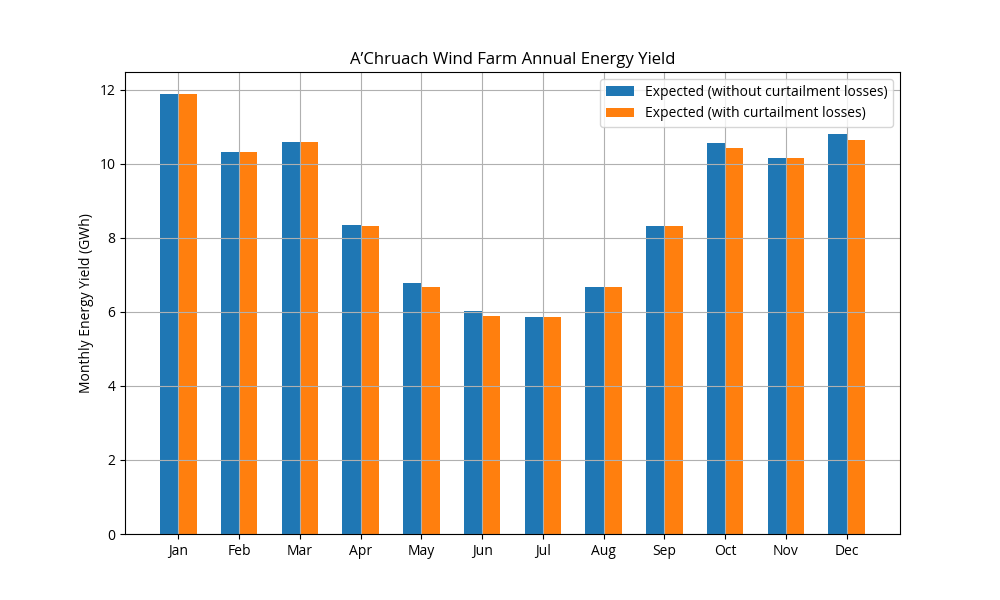
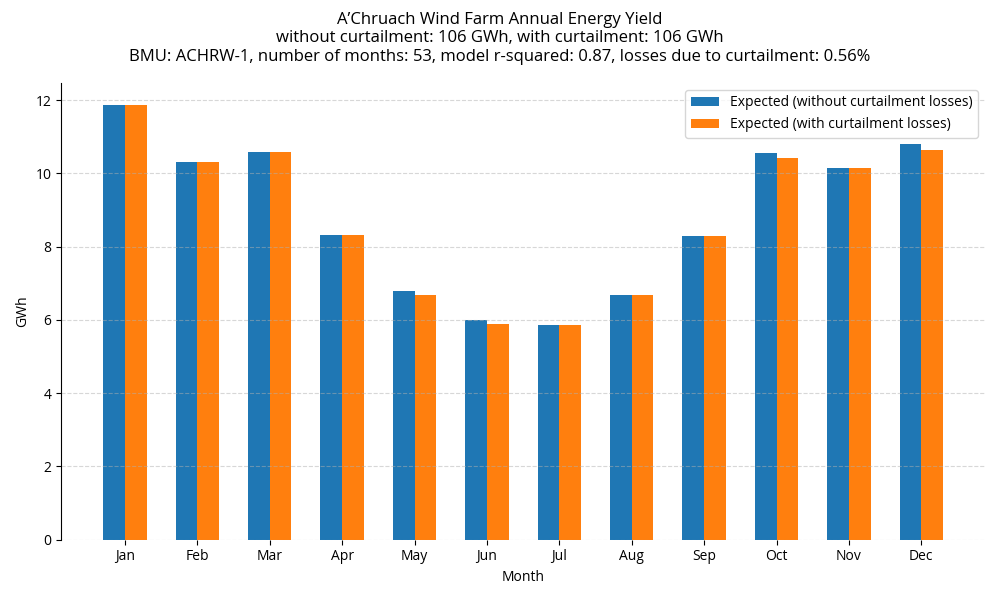
Add wind farm posts and images

diff --git a/src/energy_yield/matplotlib_plotting.py b/src/energy_yield/matplotlib_plotting.py
@@ -1,0 +1,187 @@
+import os, sys
+import plotly.graph_objects as go
+from plotly.subplots import make_subplots
+import matplotlib.pyplot as plt
+import numpy as np
+from scipy import stats
+
+
+# change the matplotlib font to use open sans
+plt.rcParams['font.family'] = 'sans-serif'
+plt.rcParams['font.sans-serif'] = 'Open Sans'
+
+COLOURS = ['#3F7D20', '#A0DDE6', '#542e71','#3F7CAC','#698F3F']
+
+global project_root_path
+project_root_path = os.path.dirname(os.path.dirname(os.path.dirname(os.path.abspath(__file__))))
+
+
+import matplotlib.pyplot as plt
+import os
+import pandas as pd
+
+def _get_ax(ax, plot_df, pcey_obj, start, end):
+    # Slice the DataFrame
+    df_slice = plot_df[start:end]
+
+    # Plot the data on the provided axis
+    ax.plot(df_slice.index, df_slice[pcey_obj.COL_PREDICTED_IDEAL_YIELD], label='Predicted', marker='x')
+    ax.plot(df_slice.index, df_slice[pcey_obj.COL_NET_YIELD + '_ok'], label='Generation', marker='x')
+    ax.plot(df_slice.index, df_slice[pcey_obj.COL_IDEAL_YIELD + '_ok'], label='Generation - Curtailment', marker='x')
+
+    # Set the title, labels, and legend
+
+
+    ax.set_xlabel('Month')
+    ax.set_ylabel('GWh')
+    ax.legend()
+
+    for spine in ['top', 'right','bottom']:
+        ax.spines[spine].set_visible(False)
+
+    # y grid lines
+    ax.grid(axis='y', linestyle='--', alpha=0.5)
+
+    return ax
+
+
+
+def plot_generation(pcey_obj):
+    try:
+        # Make a folder for the plots
+        plot_folder = os.path.join(project_root_path, 'plots')
+        if not os.path.exists(plot_folder):
+            os.mkdir(plot_folder)
+
+        filename = f'2_{pcey_obj.bmu}_pcey'
+        plot_path = os.path.join(plot_folder, filename)
+        plot_df = pcey_obj.month_df.copy()
+
+
+
+
+        fig = plt.figure(figsize=(10, 15))
+        ax1 = fig.add_subplot(411)
+        ax2 = fig.add_subplot(412)
+        ax3 = fig.add_subplot(413)
+        ax4 = fig.add_subplot(414)
+
+        # break the data into 4 parts
+        n = len(plot_df)
+        n1 = int(n / 4)
+        n2 = int(n / 2)
+        n3 = int(n * 3 / 4)
+
+        # Plot the data
+        ax1 = _get_ax(ax1, plot_df, pcey_obj, 0, n1)
+        ax2 = _get_ax(ax2, plot_df, pcey_obj, n1, n2)
+        ax3 = _get_ax(ax3, plot_df, pcey_obj, n2, n3)
+        ax4 = _get_ax(ax4, plot_df, pcey_obj, n3, n)
+
+        fig.suptitle(f'{pcey_obj.bmu} - {pcey_obj.name}', fontsize=16)
+
+
+        plt.tight_layout()
+
+
+        # Save the plot
+        plt.savefig(f'{plot_path}.png')
+        plt.close()
+
+    except Exception as e:
+        # Error handling
+        line_number = sys.exc_info()[-1].tb_lineno
+        print(f"plot_generation(), error: {e}, line: {line_number}")
+
+
+def plot_scatter(pcey_obj):
+    try:
+        # Make a folder for the plots
+        plot_folder = os.path.join(project_root_path, 'plots')
+        if not os.path.exists(plot_folder):
+            os.mkdir(plot_folder)
+
+        filename = f'1_{pcey_obj.bmu}_scatter'
+        plot_path = os.path.join(plot_folder, filename)
+        plot_df = pcey_obj.month_df.copy()
+        filt = plot_df[pcey_obj.COL_DAILY_IDEAL_YIELD + '_ok'] > 0
+        filt2 = plot_df[pcey_obj.COL_DAILY_IDEAL_YIELD + '_fail'] > 0
+        plot_df = plot_df[filt | filt2].copy()
+
+        # Create the plot
+        fig = plt.figure(figsize=(10, 10))
+        ax = fig.add_subplot(111)
+        ax.scatter(plot_df[pcey_obj.COL_DAILY_PREDICTED], plot_df[pcey_obj.COL_DAILY_IDEAL_YIELD + '_ok'], color='darkblue', label='QC PASS')
+        ax.scatter(plot_df[pcey_obj.COL_DAILY_PREDICTED], plot_df[pcey_obj.COL_DAILY_IDEAL_YIELD + '_fail'], color='orange', label='QC FAIL')
+
+        x_range = np.linspace(0, plot_df[pcey_obj.COL_DAILY_PREDICTED].max() * 1.1, 100)
+        ax.plot(x_range, pcey_obj.fit_dict['slope'] * x_range + pcey_obj.fit_dict['intercept'], color='red', linestyle='--')
+
+
+        ax.set_xlabel('Predicted Average Daily Generation (GWh)')
+        ax.set_ylabel('Actual Average Daily Generation (GWh)')
+        ax.legend()
+
+        for spine in ['top', 'right']:
+            ax.spines[spine].set_visible(False)
+
+        fig.suptitle(f'{pcey_obj.bmu} - {pcey_obj.name}', fontsize=16)
+        # save the plot
+        fig.savefig(f'{plot_path}.png')
+        plt.close()
+
+    except Exception as e:
+        # Error handling
+        line_number = sys.exc_info()[-1].tb_lineno
+        print(f"plot_scatter(), error: {e}, line: {line_number}")
+
+
+
+def plot_p50(pcey_obj):
+    
+    try:
+        # Make a folder for the plots
+        plot_folder = os.path.join(project_root_path, 'plots')
+        if not os.path.exists(plot_folder):
+            os.mkdir(plot_folder)
+        
+        filename = f'3_{pcey_obj.bmu}_p50'
+        plot_path = os.path.join(plot_folder, filename)
+        
+        # Creating the plot
+        fig = plt.figure(figsize=(10, 6))
+        ax = fig.add_subplot(111)
+
+        ax.bar(pcey_obj.energy_yield_df.index - 0.15, pcey_obj.energy_yield_df['energy_without_curtailment'], width=0.3, label='Expected (without curtailment losses)')
+        ax.bar(pcey_obj.energy_yield_df.index + 0.15, pcey_obj.energy_yield_df['energy_with_curtailment'], width=0.3, label='Expected (with curtailment losses)')
+        
+        ax.set_xticks(pcey_obj.energy_yield_df.index, ['Jan', 'Feb', 'Mar', 'Apr', 'May', 'Jun', 'Jul', 'Aug', 'Sep', 'Oct', 'Nov','Dec'])
+        ax.set_xlabel('Month')
+        ax.set_ylabel('GWh')
+        ax.legend()
+
+        for spine in ['top', 'right','bottom']:
+            ax.spines[spine].set_visible(False)
+        
+        # y grid lines
+        ax.grid(axis='y', linestyle='--', alpha=0.5)
+
+        title = (f"{pcey_obj.name} Annual Energy Yield\n"
+         f"without curtailment: {pcey_obj.p50_ideal_yield:.0f} GWh, "
+         f"with curtailment: {pcey_obj.p50_energy_yield:.0f} GWh\n"
+         f"BMU: {pcey_obj.bmu}, number of months: {pcey_obj.n_data_points}, "
+         f"model r-squared: {pcey_obj.prediction_r2:.2f}, "
+         f"losses due to curtailment: {pcey_obj.losses_as_percentage:.2f}%")
+
+        fig.suptitle(title)
+        fig.tight_layout()
+
+
+        # Save the plot
+        fig.savefig(f'{plot_path}.png')
+        plt.close()
+        
+    except Exception as e:
+        # Error handling
+        line_number = sys.exc_info()[-1].tb_lineno
+        print(f"plot_p50(), error: {e}, line: {line_number}")

diff --git a/src/pcey_analysis.py b/src/pcey_analysis.py
@@ -52,21 +52,13 @@ def append_html_to_md(windfarm_df):
                         # list dir with a wildcard
                         file_list = os.listdir(os.path.join(project_root_path, 'docs', 'assets',))
                         file_list = [file for file in file_list if bmu in file and 'png' in file]
+                        assert len(file_list) > 0
                         for file in file_list:
-                            file_path = os.path.join(project_root_path, 'plots', file)
-                            # check if the file exists
-    
 
-                            # tjis is the png file
-                            # add the png file to the markdown file
-                            # ![]({{ site.baseurl }}/assets/{}.png)
-                            # make sure it is double curly brackets
+
 
                             
                             text += ("""![]({{ site.baseurl }}""" + f"/assets/{file})\n")
-
-                            # put the png file in the assets folder
-                            # move the png file to the assets folder
 
 
                             

diff --git a/src/main.py b/src/main.py
@@ -11,7 +11,7 @@ import src.data_handling.weather as weather
 
 
 from src.data_handling.bmrs import BMU, BMRS
-from src.energy_yield import pcey_plotting
+from src.energy_yield import matplotlib_plotting as pcey_plotting
 
 # curvefit
 

diff --git a/docs/_posts/2023-12-03-andershaw_wind_farm.md b/docs/_posts/2023-12-03-andershaw_wind_farm.md
@@ -1,0 +1,10 @@
+---
+title: Andershaw Wind Farm
+author: James Twallin
+date: 2023-12-03
+category: windfarm
+layout: post
+---
+![]({{ site.baseurl }}/assets/1_ASHWW-1_scatter.png)
+![]({{ site.baseurl }}/assets/2_ASHWW-1_pcey.png)
+![]({{ site.baseurl }}/assets/3_ASHWW-1_p50.png)

diff --git a/docs/_posts/2023-12-03-arecleoch_wind_farm.md b/docs/_posts/2023-12-03-arecleoch_wind_farm.md
@@ -1,0 +1,10 @@
+---
+title: Arecleoch Wind Farm
+author: James Twallin
+date: 2023-12-03
+category: windfarm
+layout: post
+---
+![]({{ site.baseurl }}/assets/1_ARCHW-1_scatter.png)
+![]({{ site.baseurl }}/assets/2_ARCHW-1_pcey.png)
+![]({{ site.baseurl }}/assets/3_ARCHW-1_p50.png)
